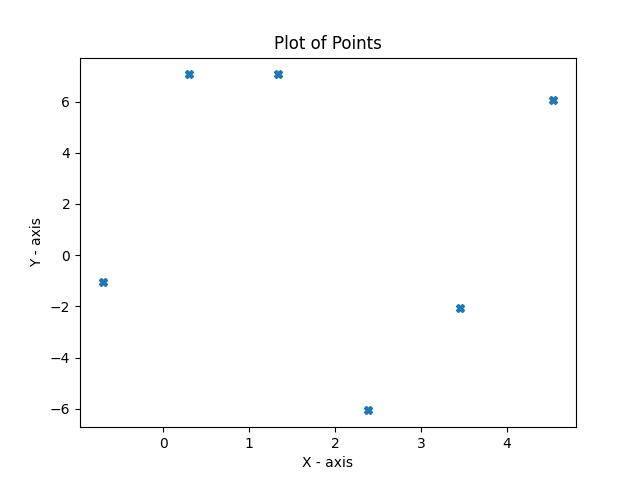
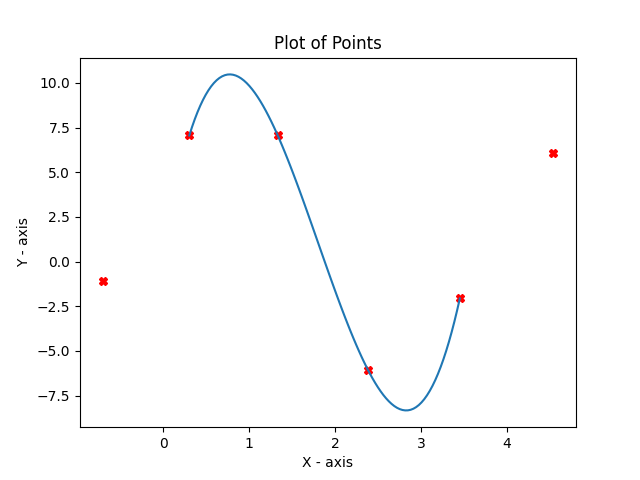
Plots cubic on gragh

diff --git a/functions.py b/functions.py
@@ -36,6 +36,7 @@ def myID ():
 def cubicfit (x, y, xhat):
     x1,x2,x3,x4 = x[0],x[1],x[2],x[3]
     y1,y2,y3,y4 = y[0],y[1],y[2],y[3]
+
     def L1(xhat): # where x and y are the points, value is the x part of L(x)
         return ((xhat-x2)*(xhat-x3)*(xhat-x4))/((x1-x2)*(x1-x3)*(x1-x4))
     def L2(xhat): # where x and y are the points, value is the x part of L(x)
@@ -44,7 +45,6 @@ def cubicfit (x, y, xhat):
         return ((xhat-x1)*(xhat-x2)*(xhat-x4))/((x3-x1)*(x3-x2)*(x3-x4))
     def L4(xhat): # where x and y are the points, value is the x part of L(x)
         return ((xhat-x1)*(xhat-x2)*(xhat-x3))/((x4-x1)*(x4-x2)*(x4-x3))
-    
     
     yhat = (y1*L1(xhat)) + (y2*L2(xhat)) + (y3*L3(xhat)) + (y4*L4(xhat))
     return yhat

diff --git a/plotmydata.py b/plotmydata.py
@@ -2,7 +2,16 @@ import matplotlib.pyplot as plt
 from functions import *
 
 x,y = mydata(myID())
-plt.plot(x,y,"X")
+plt.plot(x,y,"rX")
+
+px = np.linspace(x[1],x[4],100)
+py = []
+index = 0
+for count in px:
+    py.append(cubicfit(x[1:5],y[1:5],px[index]))
+    index = index + 1
+plt.plot(px,py)
+
 plt.xlabel("X - axis")
 plt.ylabel("Y - axis")
 plt.title("Plot of Points")
